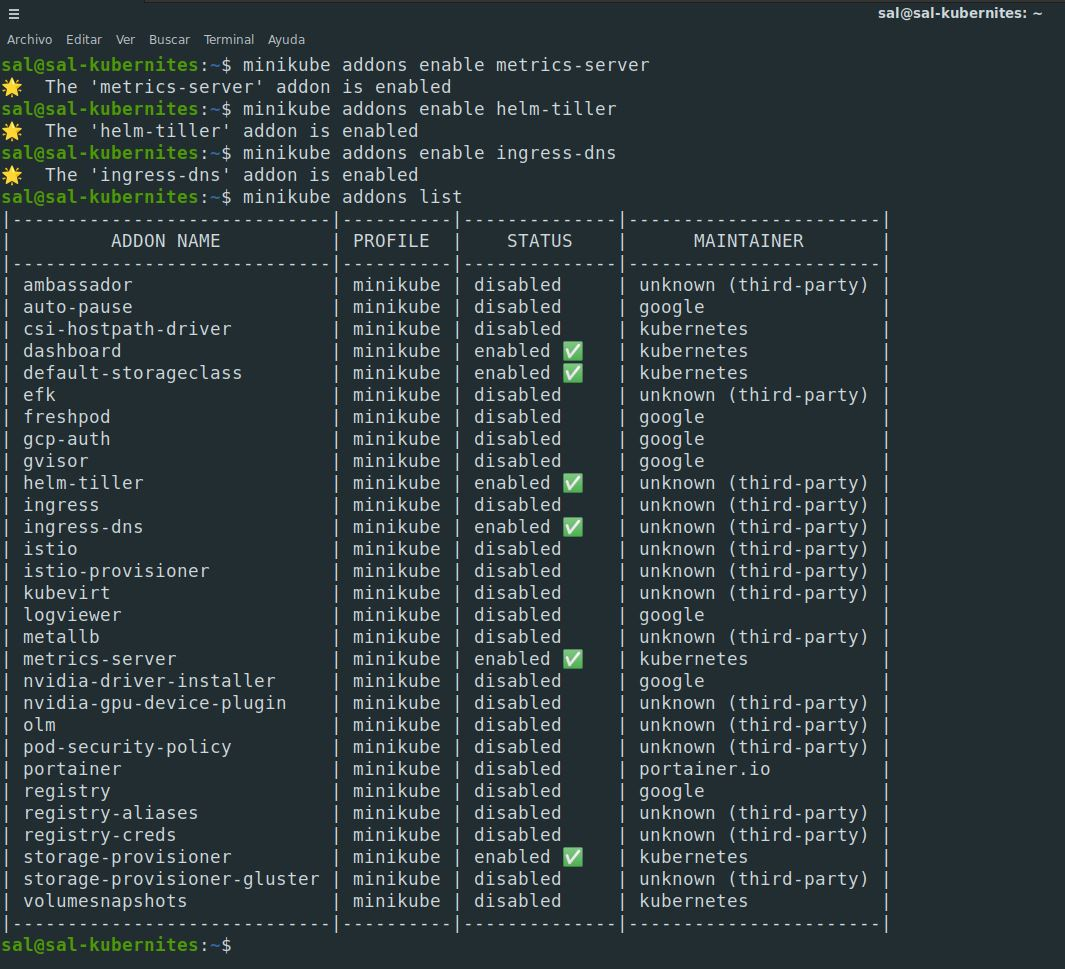
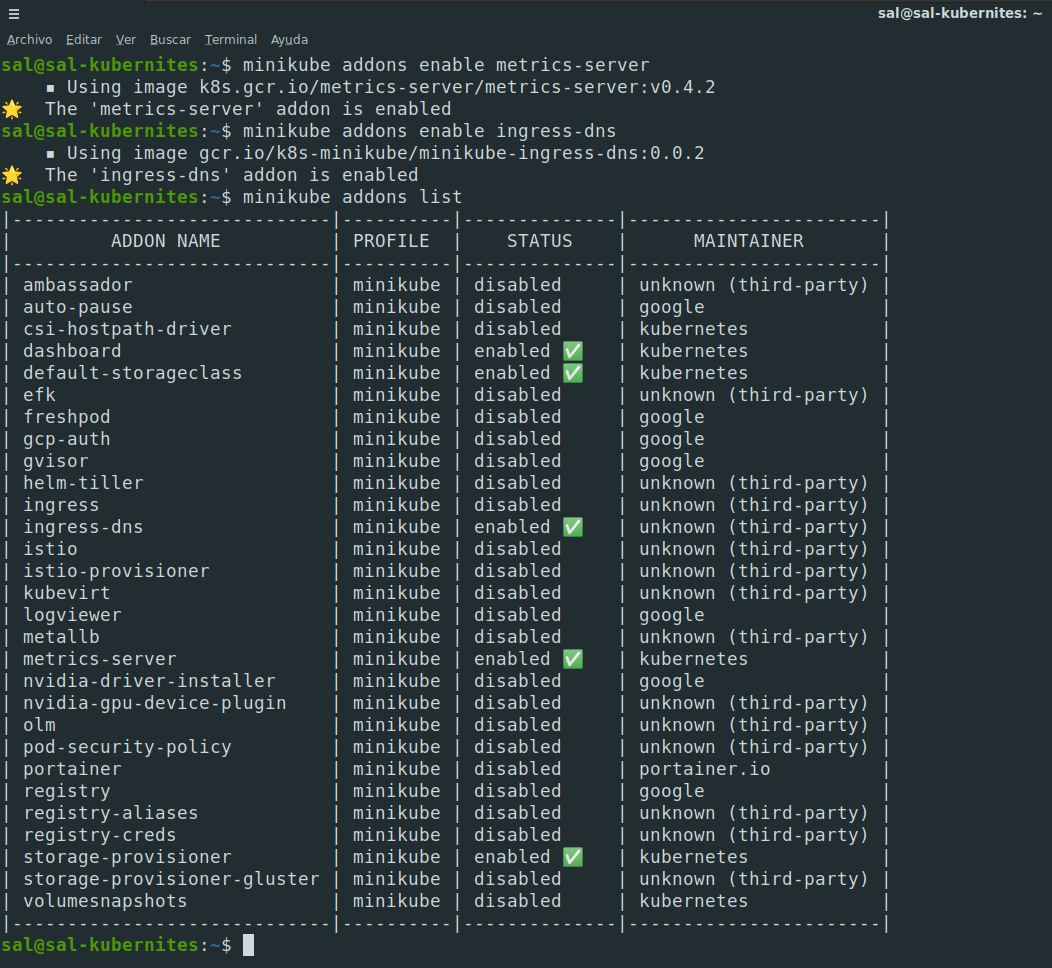
Preparación repositorio #15

Changed region(s): [[0.0, 0.031, 0.8517, 0.9917], [0.8213, 0.0, 0.9734, 0.031], [0.6388, 0.155, 0.6692, 0.186]]

diff --git a/codigo/README.md b/codigo/README.md
@@ -233,7 +233,6 @@ minikube addons list
 ```bash
 
 minikube addons enable metrics-server
-minikube addons enable helm-tiller
 minikube addons enable ingress-dns
 
 ```
@@ -257,3 +256,50 @@ minikube dashboard
 ### - Dashboard de Kubernetes GUI
 
 ![kubernetes_dashboard_gui](/capturas/23_kubernetes_dashboard_gui.JPG)
+
+<br />
+
+### - Descarga de Lens IDE
+![lens_ide](/capturas/24_descarga_Lens_IDE.JPG)
+
+<br />
+
+### - Interfaz gráfica Lens IDE
+![lens_ide_gui](/capturas/25_descarga_Lens_IDE_gui.JPG)
+
+<br />
+
+### - Instalación clave GPG y paquetes de Helm
+
+```bash
+
+curl https://baltocdn.com/helm/signing.asc | sudo apt-key add -
+echo "deb https://baltocdn.com/helm/stable/debian/ all main" sudo tee /etc/apt/sources.list.d/helm-stable-debian.list
+
+```
+
+![GPGkey_packages_helm](/capturas/26_instalacion_GPGkey_paquetes_helm.JPG)
+
+<br />
+
+### - Instalación Helm
+
+```bash
+
+sudo apt install helm -y
+
+```
+
+![installation_helm](/capturas/27_instalacion_helm.JPG)
+
+<br />
+
+### - Comprobación de versión de Helm
+
+```bash
+
+helm version
+
+```
+
+![helm_version](/capturas/28_comprobacion_version_helm.JPG)
